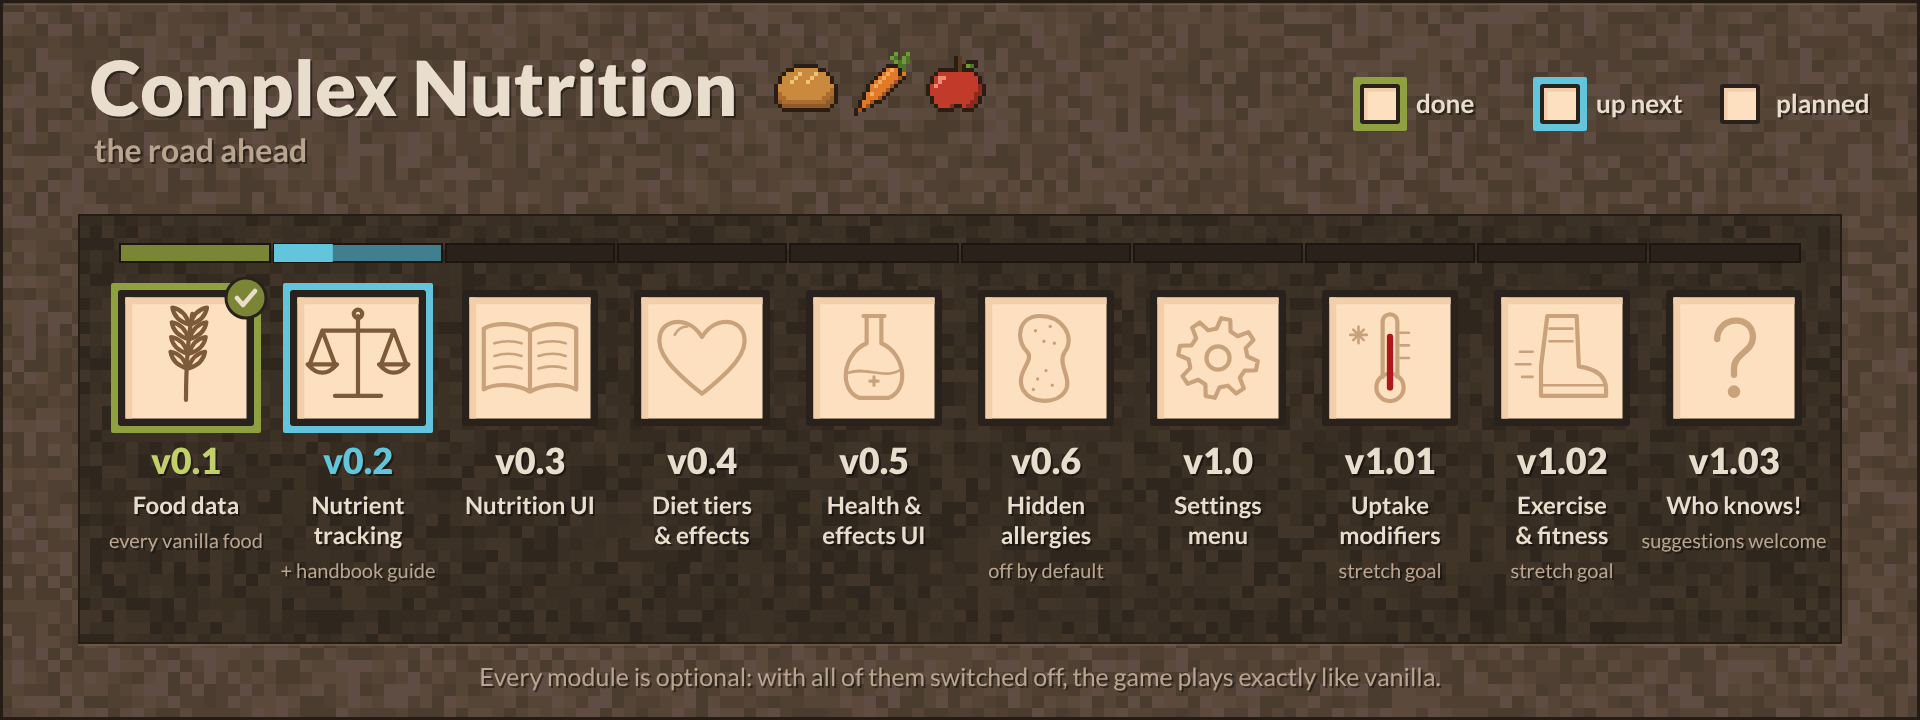
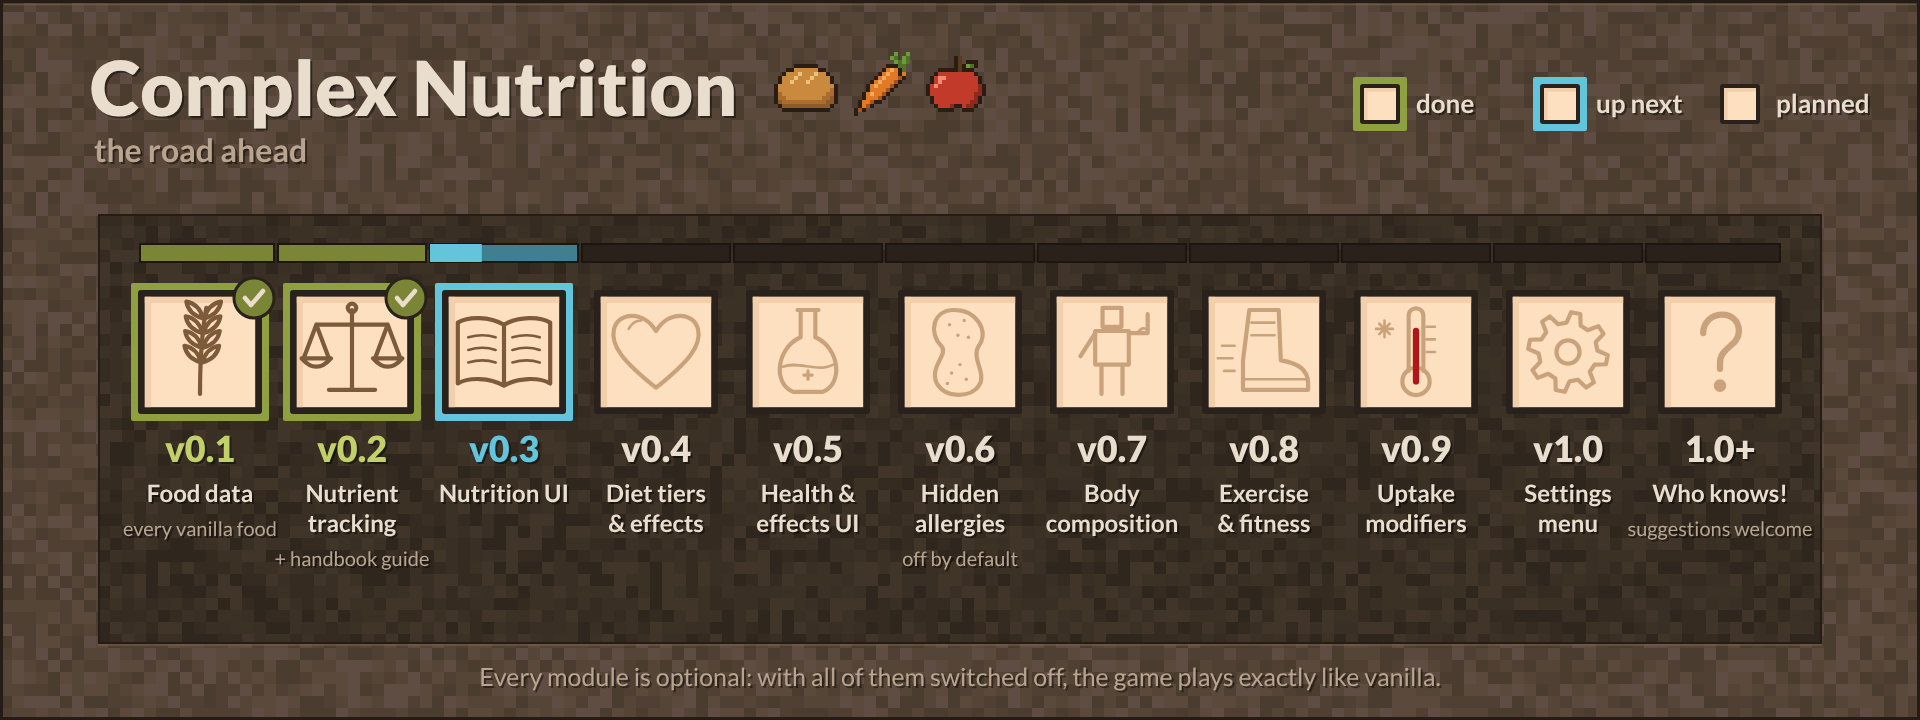
v0.2.1: Fullness, Nutritional Reserves heading, day blocks, nutrient explanations, roadmap update
Claude-Session: https://claude.ai/code/session_01XNC4SbSXBNe7BhNLkTGZXU

Changed region(s): [[0.0312, 0.3056, 0.9688, 0.8861]]

diff --git a/art/roadmap.html b/art/roadmap.html
@@ -19,15 +19,16 @@
 // A '|' in a title splits it over two lines.
 const MILESTONES = [
   { v: 'v0.1',  title: 'Food data',               note: 'every vanilla food',   icon: 'wheat',    status: 'done' },
-  { v: 'v0.2',  title: 'Nutrient|tracking',       note: '+ handbook guide',     icon: 'scales',   status: 'next' },
-  { v: 'v0.3',  title: 'Nutrition UI',            note: '',                     icon: 'book',     status: 'planned' },
+  { v: 'v0.2',  title: 'Nutrient|tracking',       note: '+ handbook guide',     icon: 'scales',   status: 'done' },
+  { v: 'v0.3',  title: 'Nutrition UI',            note: '',                     icon: 'book',     status: 'next' },
   { v: 'v0.4',  title: 'Diet tiers|& effects',    note: '',                     icon: 'heart',    status: 'planned' },
   { v: 'v0.5',  title: 'Health &|effects UI',     note: '',                     icon: 'flask',    status: 'planned' },
   { v: 'v0.6',  title: 'Hidden|allergies',        note: 'off by default',       icon: 'peanut',   status: 'planned' },
+  { v: 'v0.7',  title: 'Body|composition',        note: '',                     icon: 'body',     status: 'planned' },
+  { v: 'v0.8',  title: 'Exercise|& fitness',      note: '',                     icon: 'boot',     status: 'planned' },
+  { v: 'v0.9',  title: 'Uptake|modifiers',        note: '',                     icon: 'thermo',   status: 'planned' },
   { v: 'v1.0',  title: 'Settings|menu',           note: '',                     icon: 'cog',      status: 'planned' },
-  { v: 'v1.01', title: 'Uptake|modifiers',        note: 'stretch goal',         icon: 'thermo',   status: 'planned' },
-  { v: 'v1.02', title: 'Exercise|& fitness',      note: 'stretch goal',         icon: 'boot',     status: 'planned' },
-  { v: 'v1.03', title: 'Who knows!',              note: 'suggestions welcome',  icon: 'question', status: 'planned' },
+  { v: '1.0+',  title: 'Who knows!',              note: 'suggestions welcome',  icon: 'question', status: 'planned' },
 ];
 // ==========================================================================================================
 
@@ -80,6 +81,12 @@ const GLYPH = {
     el('path', { d: 'M-20,26 L42,26 M-12,-28 L10,-28 M-12,-16 L10,-16', 'stroke-width': 2.5 }, g);
     el('path', { d: 'M-40,-6 l12,0 M-44,6 l14,0 M-38,18 l10,0', 'stroke-width': 2.5 }, g);
   },
+  body(g) {                           // a blocky figure flexing one arm
+    el('rect', { x: -9, y: -42, width: 18, height: 18 }, g);
+    el('path', { d: 'M-16,-20 L16,-20 L16,12 L-16,12 Z M-10,12 L-10,40 M10,12 L10,40' }, g);
+    el('path', { d: 'M16,-18 L34,-18 L34,-36 M-16,-18 L-30,4' }, g);
+    el('path', { d: 'M24,-18 q6,-8 10,-2', 'stroke-width': 2.5 }, g);
+  },
   peanut(g) {
     el('path', { d: 'M-6,-40 C-26,-40 -30,-18 -18,-6 C-10,2 -30,14 -22,30 C-14,44 10,44 18,32 C26,20 10,6 18,-6 C28,-20 16,-40 -6,-40 Z' }, g);
     for (const [x, y] of [[-10, -26], [4, -30], [-2, -16], [8, -14], [-8, 20], [6, 26], [0, 12], [-12, 30]]) el('circle', { cx: x, cy: y, r: 1.6, fill: 'currentColor', stroke: 'none' }, g);
@@ -111,7 +118,7 @@ lg.forEach(([label, ring], i) => {
 });
 
 // the milestone row sits in a sunken area, like an inventory grid
-const n = MILESTONES.length, S = 136, GAP = 36;
+const n = MILESTONES.length, S = 124, GAP = 28;
 const x0 = (W - (n * S + (n - 1) * GAP)) / 2;
 inset(svg, x0 - 40, 214, n * S + (n - 1) * GAP + 80, 430, 10, 12);
 

diff --git a/ComplexNutrition/Modules/Tracking/CharacterStatsPatch.cs b/ComplexNutrition/Modules/Tracking/CharacterStatsPatch.cs
@@ -57,14 +57,47 @@ namespace ComplexNutrition.Modules.Tracking
             {
                 listening = true;
                 capi.Event.LevelFinalize += ListenForChanges;
+                hudListener = capi.Event.RegisterGameTickListener(_ => LabelFullnessBar(), 1000);
             }
+        }
+
+        private static long hudListener;
+        private static GuiElementStatbar labelledBar;
+
+        /// <summary>
+        /// Vanilla's satiety bar next to the hotbar only shows "1070 / 1500" on hover. Label it as fullness, so
+        /// it reads as how much the stomach holds, next to the calorie reserve. The HUD recomposes now and then
+        /// (resizing, GUI scale), which makes a new bar, so this checks once a second.
+        /// </summary>
+        private static void LabelFullnessBar()
+        {
+            if (capi == null) return;
+            var hud = capi.Gui.LoadedGuis.FirstOrDefault(g => g.GetType().Name == "HudStatbar");
+            var bar = hud?.Composers["statbar"]?.GetStatbar("saturationstatbar");
+            if (bar == null || bar == labelledBar) return;
+            labelledBar = bar;
+            bar.onGetStatbarValue = () =>
+            {
+                var hunger = capi?.World?.Player?.Entity?.WatchedAttributes.GetTreeAttribute("hunger");
+                if (hunger == null) return "";
+                return Lang.Get("complexnutrition:fullness-hover",
+                    (int)Math.Round(hunger.GetFloat("currentsaturation")), (int)Math.Round(hunger.GetFloat("maxsaturation")));
+            };
+            // The hover text is only redrawn when the bar's value is set, so set it once now.
+            var tree = capi.World?.Player?.Entity?.WatchedAttributes.GetTreeAttribute("hunger");
+            if (tree != null) bar.SetValues(tree.GetFloat("currentsaturation"), 0, tree.GetFloat("maxsaturation"));
         }
 
         public static void Remove()
         {
             harmony?.UnpatchAll(HarmonyId);
             harmony = null;
-            if (capi != null && listening) capi.Event.LevelFinalize -= ListenForChanges;
+            if (capi != null && listening)
+            {
+                capi.Event.LevelFinalize -= ListenForChanges;
+                capi.Event.UnregisterGameTickListener(hudListener);
+            }
+            labelledBar = null;
             listening = false;
             capi = null;
             core = null;
@@ -113,7 +146,7 @@ namespace ComplexNutrition.Modules.Tracking
                 if (bar == null) continue;
                 float reserve = state.GetReserve(n.Code);
                 float max = Math.Max(n.Cap, reserve);
-                bar.SetLineInterval(max <= 300 ? 100 : 700);   // a line per day for short stores, per week for long ones
+                bar.SetLineInterval(100);   // one block per day of storage
                 bar.SetValues(reserve, 0, max);
             }
         }
@@ -160,7 +193,7 @@ namespace ComplexNutrition.Modules.Tracking
                 .BeginChildElements(bgBounds);
 
             ElementBounds labelBounds = ElementBounds.Fixed(0.0, 25.0, 200.0, 20.0);
-            compo.AddStaticText(Lang.Get("playerinfo-nutrition"), CairoFont.WhiteSmallText().WithWeight(FontWeight.Bold), labelBounds);
+            compo.AddStaticText(Lang.Get("complexnutrition:stats-heading"), CairoFont.WhiteSmallText().WithWeight(FontWeight.Bold), labelBounds);
             labelBounds = labelBounds.BelowCopy().WithFixedWidth(118.0).WithFixedHeight(RowHeight);
             for (int i = 0; i < nutrients.Count; i++)
             {
@@ -174,7 +207,9 @@ namespace ComplexNutrition.Modules.Tracking
                 compo.GetStatbar("cn-" + code).onGetStatbarValue = () =>
                 {
                     float r = NutritionState.Of(capi?.World?.Player?.Entity)?.GetReserve(code) ?? 0f;
-                    return Lang.Get("complexnutrition:reserve-hover", Math.Round(r), TrackingModule.DaysText(r));
+                    return Lang.Get("complexnutrition:reserve-hover", Math.Round(r), TrackingModule.DaysText(r))
+                        + "\n" + Lang.Get("complexnutrition:nutrient-" + code + "-role")
+                        + "\n" + Lang.Get("complexnutrition:effect-placeholder");
                 };
             }
             leftColumnBoundsW = leftColumnBoundsW.FixedUnder(labelBounds, -5.0);

diff --git a/docs/ROADMAP.md b/docs/ROADMAP.md
@@ -12,7 +12,7 @@ Every module has its own switch. With all of them off, the game plays exactly li
 - Mod feasibility testing: the mod loads cleanly on a 1.22.7 server and a data table of every food is in [FOOD_DATA.md](FOOD_DATA.md).
 - VS Mod DB thumbnail, description and roadmap drafts.
 
-## v0.2: Nutrient tracking and the handbook guide (this release)
+## v0.2: Nutrient tracking and the handbook guide (released)
 
 - Your body gets a reserve for each nutrient. Eating fills it, time drains it toward a daily target.
 - Meals, stews and pies count their ingredients, split by servings.
@@ -32,6 +32,8 @@ Every module has its own switch. With all of them off, the game plays exactly li
 - Effects build over in-game weeks; one bad meal does nothing.
 - Different nutrients fail on different clocks: vitamin C and B in days, minerals in a week or two, vitamins A, D, E and K over weeks.
 - Specific deficiencies have their own effects (scurvy slows healing, low iron costs max health, and so on), each with its own switch.
+- Every nutrient gets a gameplay effect of its own, even if a small one.
+- A balanced, healthy micronutrient profile raises how much protein, carbohydrate, fat and fiber you can store, and with them the calorie store.
 
 ## v0.5: Health and effects UI
 
@@ -44,19 +46,25 @@ Every module has its own switch. With all of them off, the game plays exactly li
 - Allergens follow real allergen families mapped to vanilla foods (dairy, egg, fish, wheat-type grains, nightshades, stone fruit, berries and so on). Flax is excluded unless a sub-setting allows it.
 - You find them by tasting. Reactions, including from meals and pies, hurt and slow you for a while but never kill.
 
-## v1.0: Settings menu
+## v0.7: Body composition
 
-- Every module and number adjustable in game, with sliders and toggles, as well as in the config file and by server command.
+- A simple scale from lean and muscular to heavier and fatter, with different gameplay effects for different builds.
+- Driven by calorie surplus or deficit and how active you are: a surplus with activity builds muscle and loses fat, a surplus without activity adds fat, a deficit with activity loses muscle and fat, and a deficit without it loses a little of both.
+- Possible effects: more fat insulates against the cold and softens blows a little; more muscle hits harder and works faster but burns far more calories.
 
-## v1.01: Nutrient uptake modifiers (stretch goal)
+## v0.8: Exercise and fitness
+
+- Sprinting, swimming, mining and hauling slowly build fitness, but only while you're eating well.
+
+## v0.9: Nutrient uptake modifiers
 
 - Cold, injury and intoxication change how much you absorb and how fast you burn through it.
 - A hook for disease mods to plug into.
 
-## v1.02: Exercise and fitness (stretch goal)
+## v1.0: Settings menu
 
-- Sprinting, swimming, mining and hauling slowly build fitness, but only while you're eating well.
+- Every module and number adjustable in game, with sliders and toggles, as well as in the config file and by server command.
 
-## v1.03: Who knows!
+## After 1.0: Who knows!
 
 Suggestions welcome.

diff --git a/docs/DEVELOPING.md b/docs/DEVELOPING.md
@@ -35,7 +35,7 @@ The release build writes `release/complexnutrition_<version>.zip`; drop it into 
 
 ```sh
 # server: https://cdn.vintagestory.at/gamefiles/stable/vs_server_linux-x64_1.22.7.tar.gz
-mkdir -p data/Mods && cp release/complexnutrition_0.2.0.zip data/Mods/
+mkdir -p data/Mods && cp release/complexnutrition_0.2.1.zip data/Mods/
 dotnet VintagestoryServer.dll --dataPath ./data
 ```
 
@@ -60,6 +60,7 @@ Tracking needs a player in the world. With a client connected:
 - **Absorption.** The tracking module converts each nutrient to % of its daily target, applies any registered absorption multipliers (`RegisterAbsorptionModifier`, none in v0.2), and applies diminishing returns per sitting: within `sittingHours` of the last food, intake above the nutrient's `sittingLimit` adds `scale * ln(1 + extra / scale)`. Reserves are capped at `cap`.
 - **Draining.** Every `updateSeconds`, reserves drain by `drainPerDay` scaled to the in-game hours passed, so sleeping and game speed count. Calories instead burn with vanilla satiety (prefix on `EntityBehaviorHunger.ReduceSaturation`), at `kcalPerSatiety` from `foodfallbacks.json`. Nothing drains in creative or spectator mode, while dead, or while offline.
 - **Vanilla bars.** While tracking runs for a player, a prefix on `EntityBehaviorHunger.UpdateNutrientHealthBoost` keeps the `nutrientHealthMod` max-health bonus at 0, and on the client a prefix on `CharacterExtraDialogs.ComposeStatsGui` lays out the Stats panel with our 14 bars in place of the five category bars. Switching the module off removes both patches and vanilla recomputes its bonus.
+- **Fullness.** Vanilla satiety is shown as Fullness. `assets/game/lang/en.json` overrides the vanilla lang keys for the Stats panel line, food and drink tooltips and the handbook's meal facts. The HUD bar next to the hotbar gets its hover text from `CharacterStatsPatch.LabelFullnessBar`, which finds vanilla's `HudStatbar` once a second and sets the bar's `onGetStatbarValue`, since the HUD makes a new bar whenever it recomposes.
 - **Events** (on `ComplexNutritionModSystem`, server side): `FoodEaten`, `FoodAbsorbed`, `DailyRollover` (with the ledger day that ended) and `ReserveChanged`.
 
 ## Changing food data

diff --git a/CHANGELOG.md b/CHANGELOG.md
@@ -1,5 +1,12 @@
 # Changelog
 
+## v0.2.1
+
+- Vanilla satiety is now called Fullness: how much your stomach holds. The Stats panel, food and drink tooltips and the handbook use the new name, and hovering over the bar next to the hotbar shows "Fullness: 1070 / 1500".
+- The nutrient bars on the Stats panel sit under a "Nutritional Reserves" heading, and every bar is split into one block per day of storage.
+- Hovering over a nutrient bar also says what the nutrient does, and that its effect in game is planned for v0.4. The handbook's nutrient page marks each one the same way.
+- Roadmap: new v0.7 body composition; exercise and fitness move to v0.8, nutrient uptake modifiers to v0.9, and "Who knows!" to after 1.0. v0.4 adds an effect for every nutrient, and larger macronutrient and calorie stores for a balanced diet.
+
 ## v0.2.0
 
 - New Tracking module (on by default, `tracking` in `ModConfig/complexnutrition.json`): every player has a reserve of each of the 14 nutrients, measured in days of supply (100% = one day's need).

diff --git a/README.md b/README.md
@@ -43,10 +43,11 @@ It has only been tested on Vintage Story 1.22.7 so far. Other versions might wor
 - **v0.4:** diet tiers and effects
 - **v0.5:** health and effects UI
 - **v0.6:** hidden food allergies (optional, off by default)
+- **v0.7:** body composition
+- **v0.8:** exercise and fitness
+- **v0.9:** nutrient uptake modifiers
 - **v1.0:** settings menu
-- **v1.01:** nutrient uptake modifiers (stretch goal)
-- **v1.02:** exercise and fitness (stretch goal)
-- **v1.03:** Who knows! (Suggestions welcome)
+- **After 1.0:** Who knows! (Suggestions welcome)
 
 ## Modular by design
 
